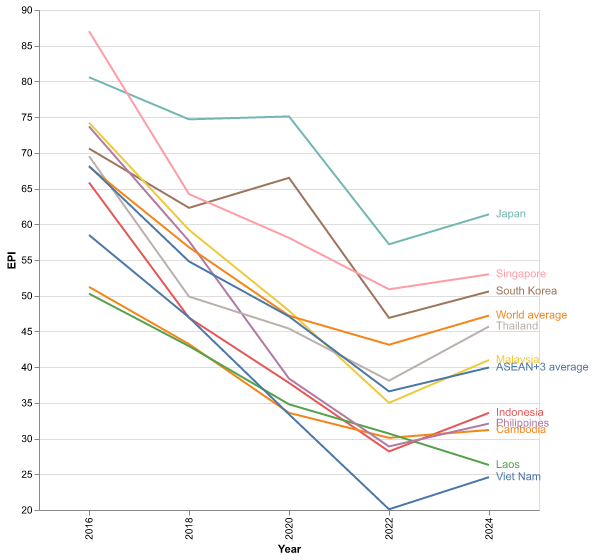
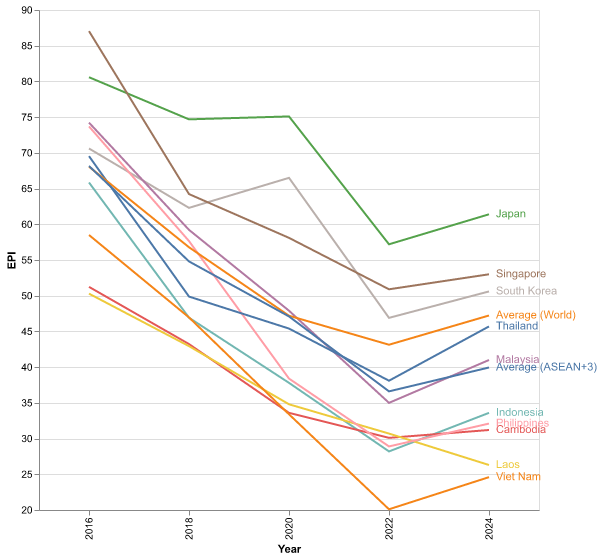
App EPI part; and corelated edits on final.qmd

diff --git a/shiny-app/app.py b/shiny-app/app.py
@@ -4,7 +4,7 @@ import os
 import pandas as pd
 import altair as alt
 
-# The contents of the first 'page' is a navset with two 'panels'.
+
 page1 = ui.card(
     ui.card_header("Bonds issuance"),
     output_widget("chart_bonds"),
@@ -12,10 +12,27 @@ page1 = ui.card(
 )
 
 
-page2 = ui.card(
-    ui.card_header("EPI"),
-    output_widget("chart_index"),
-    height=1000
+page2 = ui.page_fluid(
+    ui.input_switch("switch_to_origin",
+                    "Toggle to switch to original values, from the gap from World average", value=False),
+    ui.panel_conditional(
+        "!input.switch_to_origin",
+        ui.input_checkbox_group(
+            id="country",
+            label="Select countries you want to show:",
+            choices={}
+        ),
+        output_widget("chart_index_standardized")
+    ),
+    ui.panel_conditional(
+        "input.switch_to_origin",
+        ui.input_checkbox_group(
+            id="country_and_average",
+            label="Select countries (values) you want to show:",
+            choices={}
+        ),
+        output_widget("chart_index")
+    )
 )
 
 
@@ -39,7 +56,7 @@ app_ui = ui.page_navbar(
 
 
 def server(input, output, session):
-    # Save the working directory adress
+    # Store the working directory adress
     @reactive.calc
     def path_cwd():
         """Define working directory"""
@@ -56,6 +73,11 @@ def server(input, output, session):
         df = pd.read_csv(path_base)
         return df
 
+    @reactive.calc
+    def country_names():
+        return list(df_base()["Country Name"].unique())
+
+    # Prepare for Bond issuance chart
     @render_altair
     def chart_bonds():
         """Plot the bonds issuance plot"""
@@ -71,12 +93,106 @@ def server(input, output, session):
         )
         return chart
 
+    # Prepare for EPI chart
+
+    # Standardized EPI plot: plot gap from World average
+    @reactive.effect
+    def _():
+        """Define multiple choices for countries"""
+        choices_all = {"All ASEAN+3 countries": "All ASEAN+3 countries"}
+        choices_each = {x: x for x in country_names()}
+        choices = choices_all | choices_each
+        ui.update_checkbox_group("country", choices=choices)
+
+    @reactive.calc
+    def df_chosen_without_averages():
+        """Create subset of base df based on input"""
+        if "All ASEAN+3 countries" in input.country():
+            df = df_base()
+        else:
+            df = df_base()[df_base()["Country Name"].isin(input.country())]
+        return df
+
+    @reactive.calc
+    def chart_index_standardized_line():
+        """Create line plot for EPI gap from World average"""
+        chart = alt.Chart(df_chosen_without_averages()).mark_line().encode(
+            alt.X("Year:O"),
+            alt.Y("EPI gap from World average:Q"),
+            alt.Color("Country Name:N", legend=None)
+        ).properties(
+            width=500,
+            height=500
+        ).transform_filter(
+            "(datum.Year==2016)|(datum.Year==2018)|(datum.Year==2020)|(datum.Year==2022)|(datum.Year==2024)"
+        )
+        return chart
+
+    @reactive.calc
+    def chart_index_standardized_text():
+        """Define texts align with line plot for EPI"""
+        chart = alt.Chart(df_chosen_without_averages()).transform_filter(
+            "datum.Year == 2024"
+        ).mark_text(
+            align="left", baseline="middle", dx=7
+        ).encode(
+            text="Country Name:N",
+            x="Year:O",
+            y="EPI gap from World average:Q",
+            color="Country Name:N"
+        )
+        return chart
+
+    @render_altair
+    def chart_index_standardized():
+        """Plot the line plot + text for EPI"""
+        return chart_index_standardized_line() + chart_index_standardized_text()
+
+    # original EPI plot including World/ASEAN+3 average
+    @reactive.calc
+    def df_index():
+        """Load and store dataset including World/ASEAN+3 average"""
+        path_index = os.path.join(
+            path_cwd(), r"data\index.csv"
+        )
+        df = pd.read_csv(path_index)
+        return df
+
+    @reactive.effect
+    def _():
+        """Define multiple choices for countries"""
+        choices_all = {"All ASEAN+3 countries": "All ASEAN+3 countries"}
+        choices_averages = {"Average (World)": "Average (World)",
+                            "Average (ASEAN+3)": "Average (ASEAN+3)"}
+        choices_each = {x: x for x in country_names()}
+
+        choices = choices_all | choices_averages | choices_each
+        ui.update_checkbox_group("country_and_average", choices=choices)
+
+    @reactive.calc
+    def df_chosen_with_averages():
+        """Create subset of base df based on input"""
+        if "All ASEAN+3 countries" in input.country_and_average():
+            # only "All ~" is checked
+            if len(input.country_and_average()) == 1:
+                df = df_index()[~df_index()["Country Name"].isin(
+                    ["Average (World)", "Average (ASEAN+3)"])]
+            else:
+                checked_averages = [
+                    x for x in input.country_and_average() if (x == "Average (World)") | (x == "Average (ASEAN+3)")]
+                checked_all = country_names() + checked_averages
+                df = df_index()[df_index()["Country Name"].isin(checked_all)]
+        else:
+            df = df_index()[df_index()["Country Name"].isin(
+                input.country_and_average())]
+        return df
+
     @reactive.calc
     def chart_index_line():
         """Create line plot for EPI"""
-        chart = alt.Chart(df_base()).mark_line().encode(
+        chart = alt.Chart(df_chosen_with_averages()).mark_line().encode(
             alt.X("Year:O"),
-            alt.Y("EPI gap from average:Q"),
+            alt.Y("EPI:Q"),
             alt.Color("Country Name:N", legend=None)
         ).properties(
             width=500,
@@ -89,14 +205,14 @@ def server(input, output, session):
     @reactive.calc
     def chart_index_text():
         """Define texts align with line plot for EPI"""
-        chart = alt.Chart(df_base()).transform_filter(
+        chart = alt.Chart(df_chosen_with_averages()).transform_filter(
             "datum.Year == 2024"
         ).mark_text(
             align="left", baseline="middle", dx=7
         ).encode(
             text="Country Name:N",
             x="Year:O",
-            y="EPI gap from average:Q",
+            y="EPI:Q",
             color="Country Name:N"
         )
         return chart
